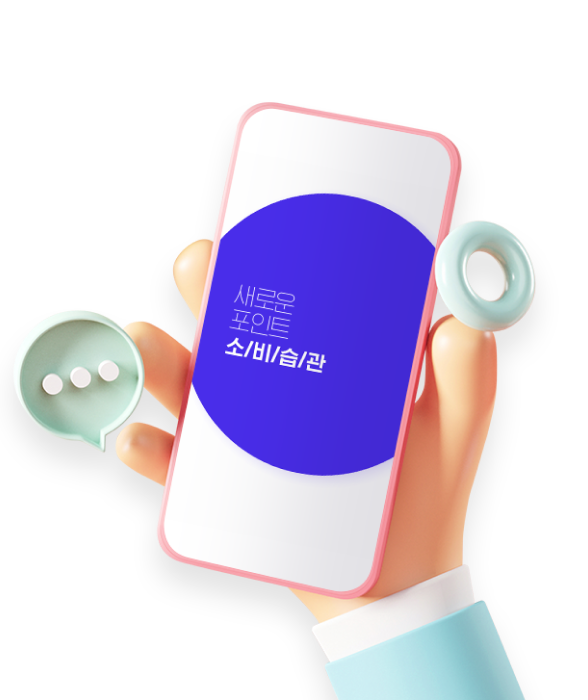
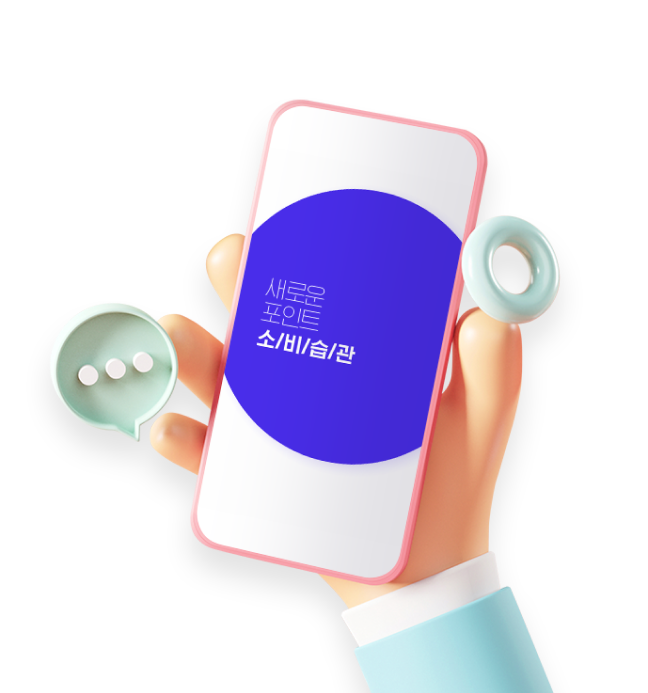
2023.09.14 전체 저장2

diff --git a/javascript/javascript06.html b/javascript/javascript06.html
@@ -81,7 +81,79 @@
             <!-- //main__menu -->
 
             <div class="main__sample">
- 
+
+                <div id="s21" class="sample">
+                    <h3>21. array.prototype.join()</h3>
+                    <p>join() 메서드는 배열의 모든 요소를 연결해 하나의 문자열로 만듭니다</p>
+<pre><code class="language-js">{
+    const elements = ['Fire', 'Air', 'Water'];
+
+    console.log(elements.join());
+    // Expected output: "Fire,Air,Water"
+    
+    console.log(elements.join(''));
+    // Expected output: "FireAirWater"
+    
+    console.log(elements.join('-'));
+    // Expected output: "Fire-Air-Water"
+}
+</code></pre>
+                    <p class="desc">
+                        join()에 아무런 인수도 전달하지 않았을때에는 기본적으로 join메서드는 ', '을 사용하여 배열의요소를 결합합니다.<br>
+                        join()에 ''(빈 문자열)을 전달하면 배열의 요소 사이에 아무런 구분자가 없이 모든 요소를 연결하여 출력하는 뜻입니다.<br>
+                        join()에 -(하이픈)을 전달하면 배열의 요소를 -(하이픈)으로 구분하여 문자열을 결합하여 출력하게 됩니다.
+                    </p>
+                </div>
+                <!-- //s21 -->
+
+                <div id="s22" class="sample">
+                    <h3>22. array.prototype.pop()</h3>
+                    <p>pop() 메서드는 배열에서 마지막 요소를 제거하고 그 요소를 반환합니다.</p>
+<pre><code class="language-js">{
+    const plants = ['broccoli', 'cauliflower', 'cabbage', 'kale', 'tomato'];
+
+    console.log(plants.pop());
+    // Expected output: "tomato"
+    
+    console.log(plants);
+    // Expected output: Array ["broccoli", "cauliflower", "cabbage", "kale"]
+    
+    plants.pop();
+    
+    console.log(plants);
+    // Expected output: Array ["broccoli", "cauliflower", "cabbage"]
+}
+</code></pre>
+                    <p class="desc">
+                        pop() 메소드를 사용하여 배열의 마지막 요소를 제거하게되면 배열은 마지막 요소가 제거가된 상태로 업데이트가 됩니다.
+                    </p>
+                </div>
+                <!-- //s22 -->
+
+                <div id="s23" class="sample">
+                    <h3>23. array.prototype.push()</h3>
+                    <p>push() 메서드는 배열의 끝에 하나 이상의 요소를 추가하고, 배열의 새로운 길이를 반환합니다.</p>
+<pre><code class="language-js">{
+    const animals = ['pigs', 'goats', 'sheep'];
+
+    const count = animals.push('cows');
+    console.log(count);
+    // Expected output: 4
+    console.log(animals);
+    // Expected output: Array ["pigs", "goats", "sheep", "cows"]
+    
+    animals.push('chickens', 'cats', 'dogs');
+    console.log(animals);
+    // Expected output: Array ["pigs", "goats", "sheep", "cows", "chickens", "cats", "dogs"]
+}
+</code></pre>
+                    <p class="desc">
+                        push() 메서드는 배열의 끝에 하나이 상의 요소릋 추가하고, 배열의 새로운 길이(요소의 개수)를 반환하며, 배열은 마지막 요소가 추가된 상태로 업데이트가 됩니다.<br>
+                        위에 예제 count = animals.push("cow")는 console.log로 출력하게 되면 animals에 cow가 추가된 요소의 개수가 출력이 되어 4개가 출력이됩니다.<br>
+                        console.log(animals);을 하게 되면 cow가 추가된 값이 나옵니다.
+                    </p>
+                </div>
+                <!-- //s23 -->
 
             </div>
             <!-- //main__sample -->

diff --git a/javascript/quiz/quizEffect02.html b/javascript/quiz/quizEffect02.html
@@ -196,7 +196,7 @@
             {
                 infoDate: "20년 4회",
                 infoType: "정보처리 기능사",
-                infoNum: "1.",
+                infoNum: "01.",
                 infoQuestion: "반가산기(Half-Adder)의 논리 회로도에서 자리올림이 발생하는 회로는?",
                 infoAnswer: "AND",
                 infoDesc: "반가산기는 2진수 1자리(1bit)의 a와 b를 더한 합과 자리올림수를 얻는 회로입니다."
@@ -204,7 +204,7 @@
             {
                 infoDate: "21년 2회",
                 infoType: "정보처리 기능사",
-                infoNum: "2.",
+                infoNum: "02.",
                 infoQuestion: "SQL의 SELECT문에서 특정열의  값을 기준으로 정렬할 때 사용하는 절은?",
                 infoAnswer: "ORDER BY 절",
                 infoDesc: "ORDER BY는 검색 결과에 대한 정렬을 수행합니다."
@@ -212,7 +212,7 @@
             {
                 infoDate: "20년 4회",
                 infoType: "정보처리 기능사",
-                infoNum: "3.",
+                infoNum: "03.",
                 infoQuestion: "주소 지정 방식 중 기억 장치에 접근할 피연산자가 없는 것으로 산술에 필요한 명령어는 스택 구조 형태에서 처리하도록 하는 것은?",
                 infoAnswer: "0-주소 형식",
                 infoDesc: "0-주소 형식(=스택 구조)은 명령어에 오퍼랜드부가 없이 데이터가 명령어 자체에 있는 방식입니다. 컴퓨어에서 사용하며 연산 속도가 가장 빠릅니다."

diff --git a/site/assete/css/style.css b/site/assete/css/style.css
@@ -217,7 +217,7 @@
 }
 .intro__img .img2 {
     position: absolute;
-    left: -25%;
+    left: -20%;
     top: -20%;
 }
 .intro__img .img2 img {
@@ -230,10 +230,13 @@
     transform: translateX(-50%);
 }
 .intro__img .img3 img {
-    width: 550px;
+    width: 600px;
 }
 .intro__text {
+    position: relative;
+    z-index: 100;
     width: 33%;
+    width: 415px;
     display: flex;
     flex-wrap: wrap;
     align-content: center;
@@ -251,4 +254,60 @@
 .intro__text p {
     font-size: 18px;
     line-height: 1.5;
+}
+
+@media (max-width: 1200px){
+    .intro__inner .container {
+        flex-direction: column-reverse;
+    }
+    .intro__inner {
+        padding-bottom: 0;
+    }
+    .intro__img {
+        width: 100%;
+    }
+    .intro__img .img3 {
+        position: relative;
+        text-align: center;
+        bottom: -10px;
+    }
+    .intro__text {
+        width: 100%;
+        flex-direction: column;
+        text-align: center;
+        padding-bottom: 0;
+    }
+}
+@media (max-width: 800px){
+    .intro__inner {
+        padding-top: 80px;
+    }
+    .intro__text {
+        padding-top: 0;
+    }
+    .intro__text h3 {
+        font-size: 40px;
+        margin-bottom: 20px;
+    }
+    .intro__text p {
+        font-size: 16px;
+    }
+}
+
+@media (max-width: 600px){
+    .intro__text h3 {
+        font-size: 34px;
+    }
+    .intro__text p {
+        font-size: 14px;
+    }
+    .intro__img .img1 img {
+        display: none;
+    }
+    .intro__img .img2 img {
+        width: 100%;
+    }
+    .intro__img .img3 img {
+        width: 100%;
+    }
 }

diff --git a/javascript/quiz/quizEffect01.html b/javascript/quiz/quizEffect01.html
@@ -37,7 +37,7 @@
                 </div>
                 <div class="quiz__main">
                     <div class="quiz__question">
-                        <em></em> 
+                        <em></em>. 
                         <span></span>
                     </div>
                     <div class="quiz__animation">
@@ -91,7 +91,7 @@
         // 문제 정보
         const infoDate= "21년 10월";
         const infoType = "정보처리 기능사";
-        const infoNum = "1";
+        const infoNum = "01";
         const infoQuestion = "CPU의 정보처리 속도 단위 중 초당 100만 개의 연산을 수행한다는 의미의 단위는?";
         const infoAnswer = "MIPS";
         const infoDesc = "LIPS는 초당 1개, KIPS는 초당 1000개, MIPS는 초당 1000000의 연산을 수행하는 것을 의미합니다.";

diff --git a/javascript/quiz/assets/css/quiz.css b/javascript/quiz/assets/css/quiz.css
@@ -520,15 +520,16 @@ body::after {
         padding: 7px;
     }
     .quiz__wrap {
-        padding: 0 16px;
+        padding: 0 6px;
         margin-top: 0;
     }
     .quiz__wrap > .quiz {
         width: 100%;
-        padding: 20px;
+        padding: 30px 20px;
     }
     .quiz__header {
-        margin-bottom: 10px;
+        margin-bottom: 20px;
+        font-size: 14px;
     }
     .quiz__date {
         font-size: 14px;
@@ -537,7 +538,7 @@ body::after {
         font-size: 14px;
     }
     .quiz__question {
-        margin-bottom: 10px;
+        margin-bottom: 20px;
         line-height: 1.5;
         font-size: 20px;
     }
@@ -557,6 +558,9 @@ body::after {
         padding: 14px;
     }
     .quiz__choice label span {
+        padding: 13px;
+    }
+    .quiz__confirm {
         padding: 13px;
     }
 }

diff --git a/javascript/javascript05.html b/javascript/javascript05.html
@@ -92,7 +92,20 @@
 }
 </code></pre>
                 </div>
-                <!-- //s30 -->
+                <!-- //s27 -->
+
+                <div id="s28" class="sample">
+                    <h3>28. string.prototype.toUpperCase()</h3>
+                    <p>toUpperCase() 메서드는 문자열을 대문자로 변환해 반환합니다.</p>
+<pre><code class="language-js">{
+    const sentence = 'The quick brown fox jumps over the lazy dog.';
+
+    console.log(sentence.toUpperCase());
+    // Expected output: "THE QUICK BROWN FOX JUMPS OVER THE LAZY DOG."
+}
+</code></pre>
+                </div>
+                <!-- //s28 -->
 
                 <div id="s30" class="sample">
                     <h3>30. string.prototype.trim()</h3>

diff --git a/javascript/quiz/quizEffect05.html b/javascript/quiz/quizEffect05.html
@@ -141,9 +141,6 @@
             // 선생님 정답
             if(!selectedChoice) {
                 alert ("답을 선택하세요");
-                quizConfirm.classList.add("none");      // 아무것도 선택하지 않은 상태에서 정답확인 버튼을 누를 때 정답 확인버튼이 계속 있는 명령어
-                quizNext.classList.remove("none");      // 아무것도 선택하지 않은 상태에서 정답확인 버튼을 누를 때 다음 문제 버튼이 나오지 않게하는 명령어
-                return;
             }
 
             const userAnswer = selectedChoice.value;                 // 사용자가 클릭한 정답

diff --git a/javascript/quiz/quizEffect06.html b/javascript/quiz/quizEffect06.html
@@ -70,7 +70,7 @@
                 .then(res => res.json())
                 .then(items => {
                     console.log(items[0].question);
-                    quizInfo[0] = items[0].question;
+                    quizInfo[0] = items[0].question, items[0].desc;
                     console.log(quizInfo)
 
             
@@ -88,6 +88,8 @@
                     <div class="quiz__main">
                         <div class="quiz__question">${quizInfo}</div>
                     </div>
+
+                    <div class="quiz__desc">${quizInfo}</div>
                 </div>
             `;
 

diff --git a/javascript/quiz/assets/css/ani.css b/javascript/quiz/assets/css/ani.css
@@ -29,7 +29,6 @@
 
 .card-container {
     position: relative;
-    width: 360px;
     margin: auto;
     padding-top: 125px;
     border-radius: 3%;

diff --git a/site/assete/css/common.css b/site/assete/css/common.css
@@ -21,4 +21,5 @@
     width: 100%;
     max-width: 1280px;
     margin: 0 auto;
+    padding: 0 16px;
 }
